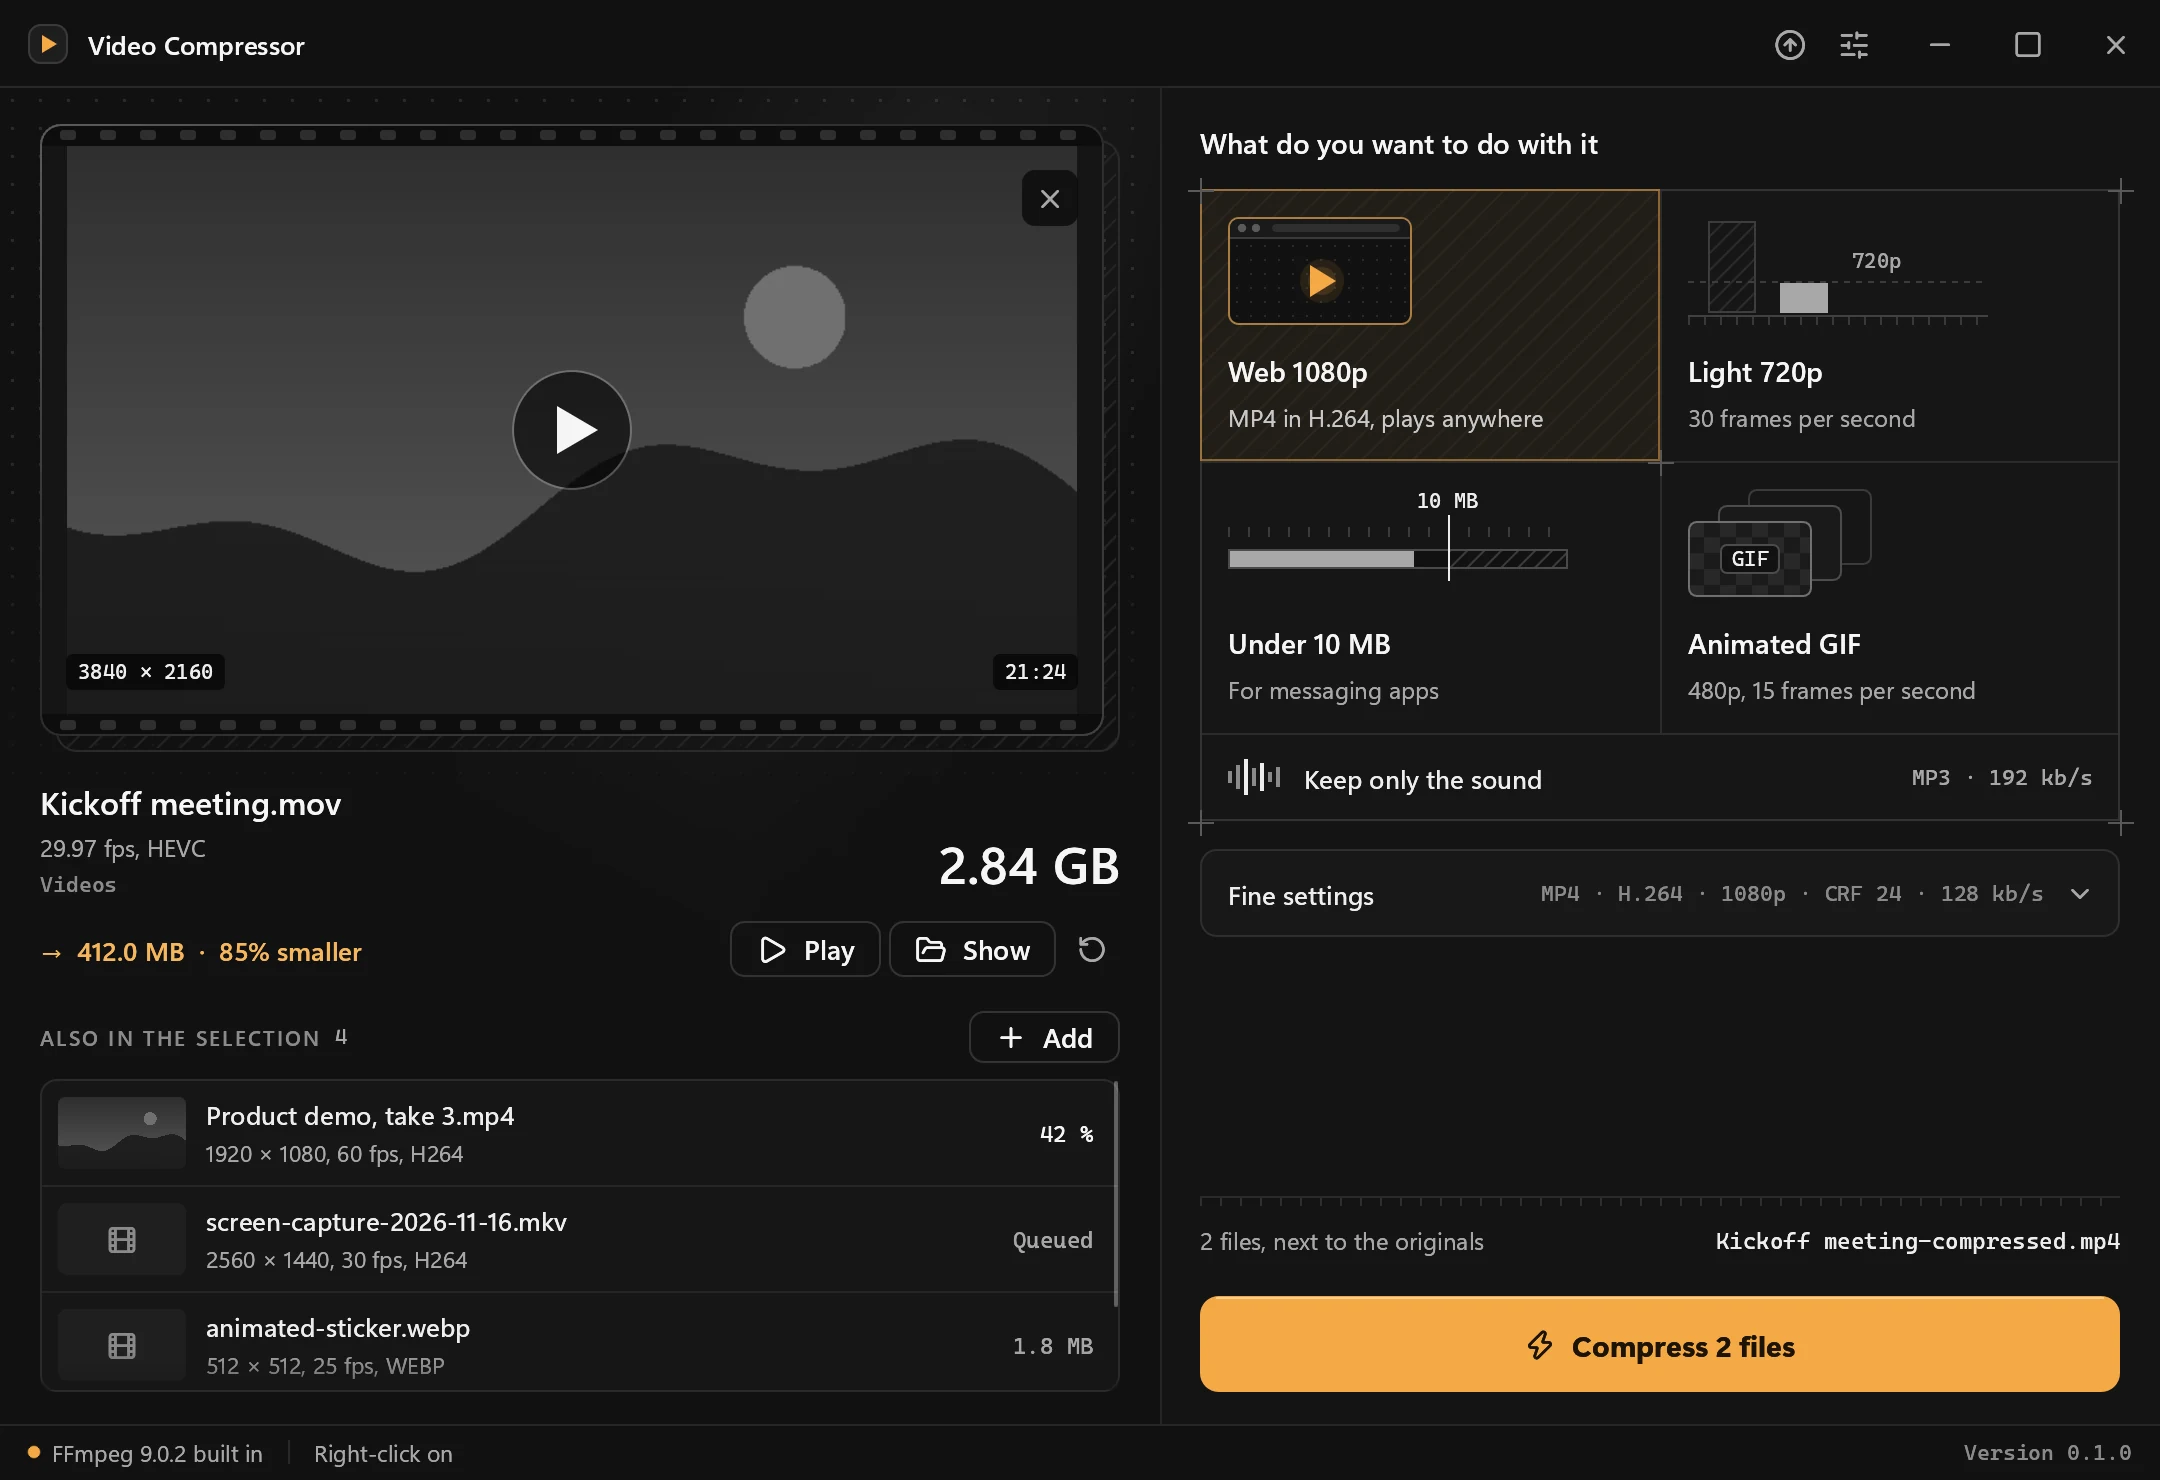
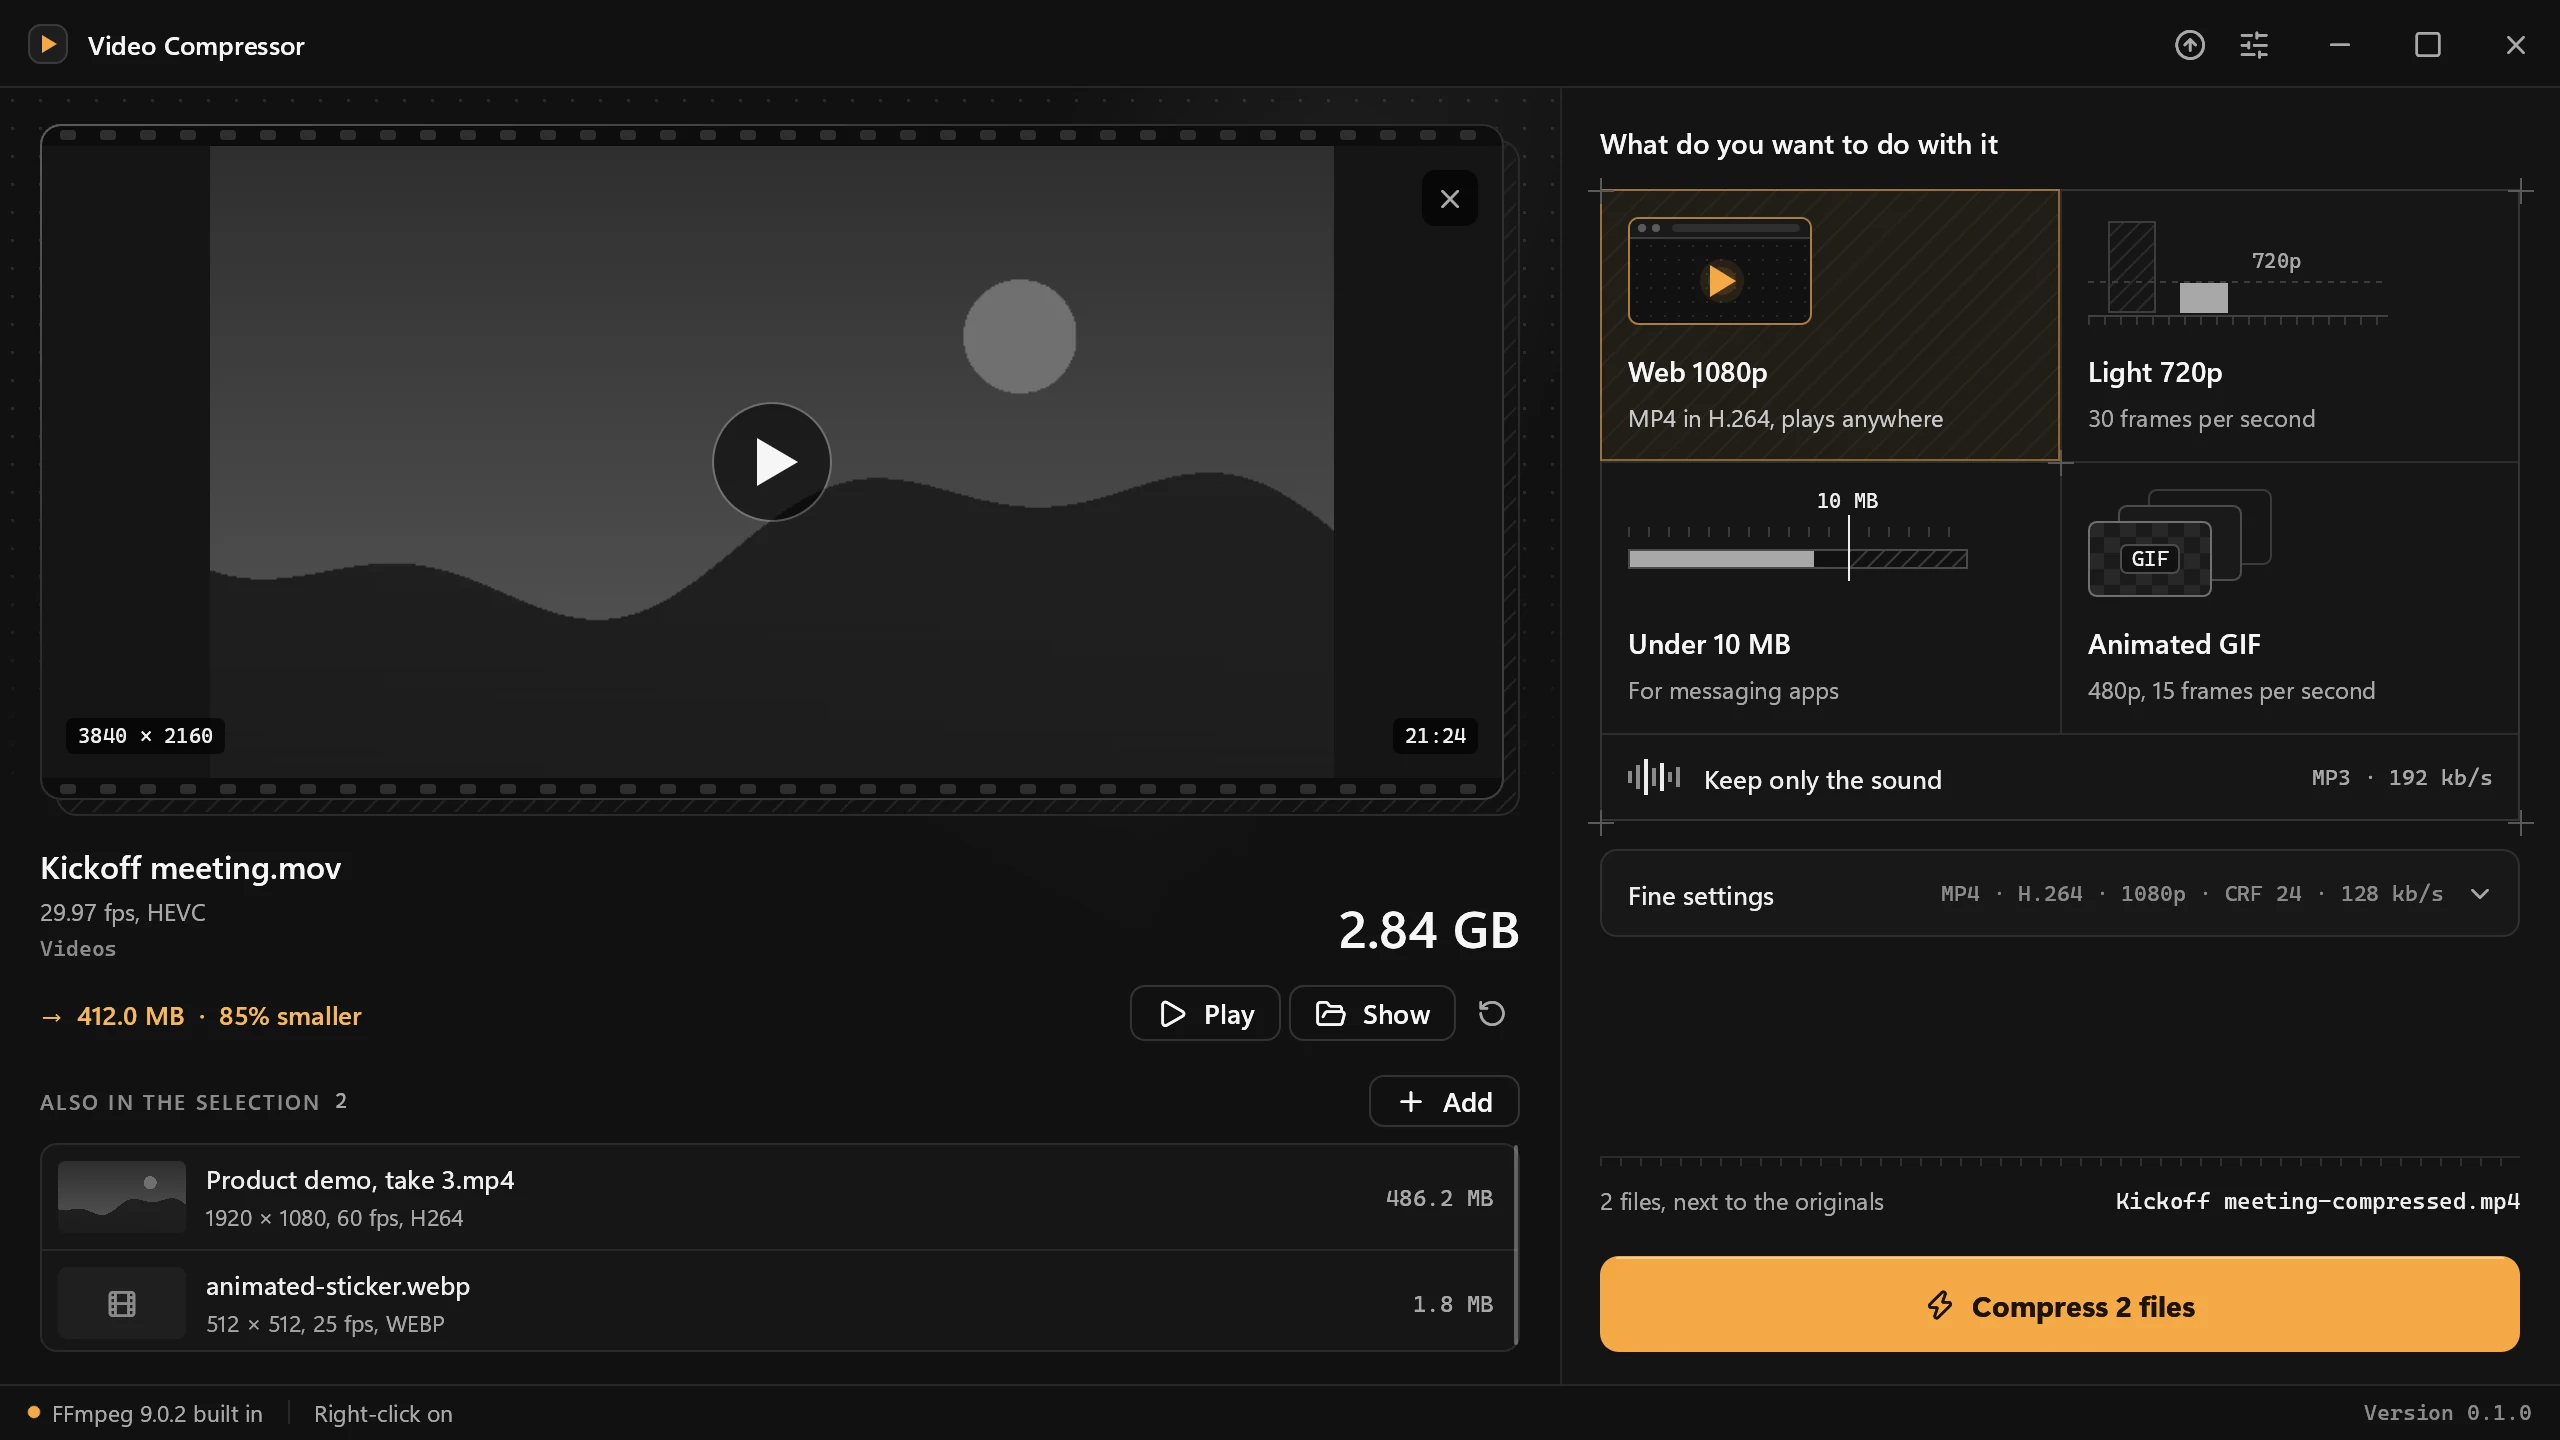
Refaire les captures du site et du README dans une fenêtre en 16/9
La fenêtre capturée fait 1280 × 720, avec trois vidéos pour que l'aperçu garde
sa hauteur. Le cadre du site et l'en-tête du README sont en 16/9.

diff --git a/landing/index.html b/landing/index.html
@@ -215,7 +215,7 @@
         display: block;
         width: 100%;
         height: auto;
-        aspect-ratio: 1080 / 740;
+        aspect-ratio: 16 / 9;
         background: #121212;
       }
 
@@ -500,7 +500,7 @@
       <h2 id="demo-h" class="sr-only">The Video Compressor window</h2>
       <div class="frame">
         <div class="frame-inner">
-          <img id="shot" src="./shots/choix.webp" width="2160" height="1480" alt="The Video Compressor window, the video on the left and five picks on the right" />
+          <img id="shot" src="./shots/choix.webp" width="2560" height="1440" alt="The Video Compressor window, the video on the left and five picks on the right" />
         </div>
       </div>
       <div class="views" role="group" aria-label="Switch view">

diff --git a/src/tests.rs b/src/tests.rs
@@ -263,10 +263,13 @@ fn captures_du_site() {
     std::fs::create_dir_all("target/captures").unwrap();
     for (lang, code) in [(Lang::En, "en"), (Lang::Fr, "fr")] {
         crate::i18n::set(lang);
-        let mut h = harness_scaled(NORMAL, 2.0);
+        // Une fenêtre en 16/9, et trois vidéos : l'aperçu garde toute sa hauteur.
+        let mut h = harness_scaled((1280.0, 720.0), 2.0);
         fill(h.state_mut());
+        h.state_mut().items.retain(|i| [100, 101, 103].contains(&i.id));
+        h.state_mut().items[1].state = State::Ready;
         if lang == Lang::En {
-            let names = ["Kickoff meeting.mov", "Product demo, take 3.mp4", "screen-capture-2026-11-16.mkv", "animated-sticker.webp", "old-camcorder.avi"];
+            let names = ["Kickoff meeting.mov", "Product demo, take 3.mp4", "animated-sticker.webp"];
             for (item, name) in h.state_mut().items.iter_mut().zip(names) {
                 item.path = Path::new("Videos").join(name);
                 item.name = name.to_owned();
@@ -282,7 +285,9 @@ fn captures_du_site() {
         h.run_steps(3);
         h.render().unwrap().save(format!("target/captures/site-{code}-reglages-fins.png")).unwrap();
         h.state_mut().fine_open = false;
-        h.state_mut().batch = Some(Batch { cancel: Arc::new(AtomicBool::new(false)), total: 4, finished: 1, ok: 1, failed: 0, saved: 0 });
+        h.state_mut().batch = Some(Batch { cancel: Arc::new(AtomicBool::new(false)), total: 2, finished: 0, ok: 0, failed: 0, saved: 0 });
+        h.state_mut().items[1].state = State::Running { fraction: 0.42, speed: 3.1, started: Instant::now() - Duration::from_secs(21) };
+        h.state_mut().items[2].state = State::Queued;
         h.state_mut().selected = Some(101);
         h.run_steps(3);
         h.render().unwrap().save(format!("target/captures/site-{code}-en-cours.png")).unwrap();

diff --git a/scripts/landing-shots.py b/scripts/landing-shots.py
@@ -50,11 +50,11 @@ def stage(capture, size, width, top):
     return out
 
 
-# L'image de partage du site : la fenêtre dépasse par le bas.
-stage("site-en-choix.png", (2400, 1260), 1840, 150).save(os.path.join(LANDING, "og.jpg"), quality=88, optimize=True, progressive=True)
-# L'en-tête du README : la fenêtre entière.
+# L'image de partage du site.
+stage("site-en-choix.png", (2400, 1260), 1840, 112).save(os.path.join(LANDING, "og.jpg"), quality=88, optimize=True, progressive=True)
+# L'en-tête du README, en 16/9 comme la fenêtre.
 os.makedirs(os.path.join(ROOT, ".github", "assets"), exist_ok=True)
-stage("site-fr-choix.png", (2400, 1560), 1840, 150).save(os.path.join(ROOT, ".github", "assets", "hero.jpg"), quality=88, optimize=True, progressive=True)
+stage("site-fr-choix.png", (2400, 1350), 1840, 157).save(os.path.join(ROOT, ".github", "assets", "hero.jpg"), quality=88, optimize=True, progressive=True)
 
 shutil.copyfile(os.path.join(ROOT, "assets", "icon.svg"), os.path.join(LANDING, "icon.svg"))
 Image.open(os.path.join(ROOT, "assets", "icon.png")).resize((128, 128), Image.LANCZOS).save(os.path.join(LANDING, "icon", "128.png"), optimize=True)
